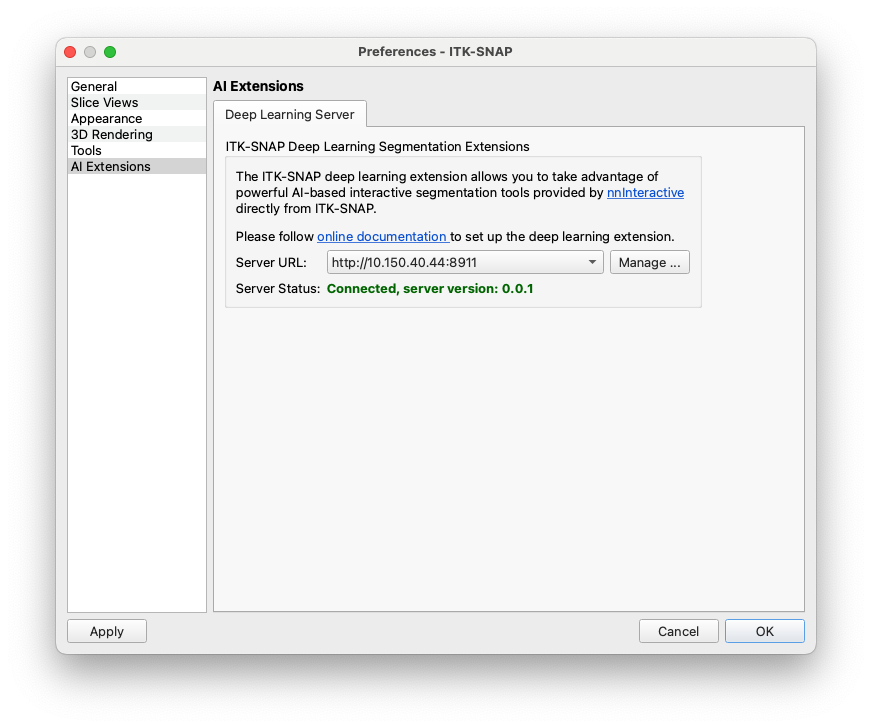
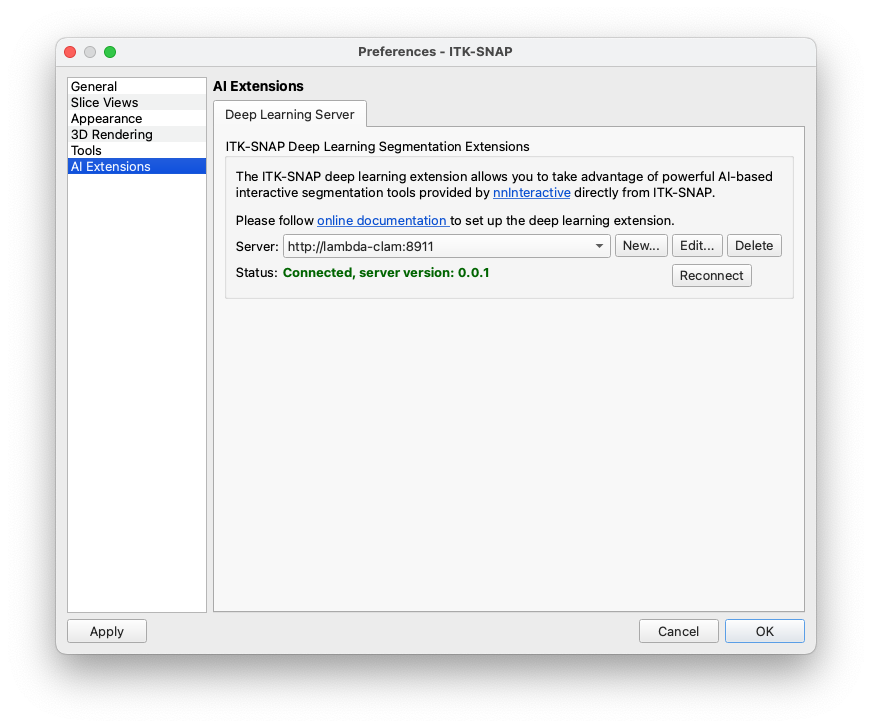
some session precaching and documentation

Changed region(s): [[0.2477, 0.2115, 0.8979, 0.4231], [0.0619, 0.2115, 0.2477, 0.2418]]

diff --git a/itksnap_dls/server.py b/itksnap_dls/server.py
@@ -1,23 +1,18 @@
-from typing import Union, Callable, List
-from pydantic import BaseModel
+from typing import Callable
 from fastapi import FastAPI, UploadFile, File, Request, Response, HTTPException, Form
 from fastapi.routing import APIRoute
 from fastapi.exceptions import RequestValidationError
-from fastapi.responses import FileResponse
 from importlib.metadata import version
-from .session import session_manager
+from .session import session_manager, PREPARED_SESSION_ID
 from .segment import SegmentSession
-import io
 import SimpleITK as sitk
-import torch
-import tempfile
-import os
-import logging
 import base64
 import numpy as np
 import gzip
 import time
 import json
+import asyncio
+from contextlib import asynccontextmanager
 
 # API debugging
 class ValidationErrorLoggingRoute(APIRoute):
@@ -38,36 +33,45 @@ class ValidationErrorLoggingRoute(APIRoute):
 
         return custom_route_handler
 
-app = FastAPI()
-# app.router.route_class = ValidationErrorLoggingRoute
-
-# Ready-to-use session
-ready_session = None
-
 # Startup code - this establishes a ready-to-use session that will be assigned 
 # to the first incoming request. This ensures faster startup on the ITK-SNAP
 # side after the server has been launched
-def server_startup():
+@asynccontextmanager
+async def lifespan(app: FastAPI):
+    # Startup logic
+    session_manager.create_session(
+        asyncio.create_task(create_segment_session()), 
+        PREPARED_SESSION_ID)
+    yield
+    
+app = FastAPI(lifespan=lifespan)
+# app.router.route_class = ValidationErrorLoggingRoute
+
+# This is a task that creates a new segmentation session
+async def create_segment_session():
+    t0 = time.perf_counter()
     seg = SegmentSession()
-    ready_session = session_manager.create_session(seg)
+    t1 = time.perf_counter()
+    print(f'SegmentSession created in {(t1-t0):0.6f} seconds')
+    return seg    
 
 @app.get("/status")
 def check_status():
     return {"status": "ok", "version": version("itksnap-dls")}
 
 @app.get("/start_session")
-def start_session():
-    global ready_session
+async def start_session():
+
+    # Grab a hopefully existing prepared segmentation session and assign to client session
+    prepseg = await session_manager.get_session(PREPARED_SESSION_ID)    
+    session_id = session_manager.create_session(prepseg)
     
-    # Create a segmentation session   
-    if ready_session is not None:
-        session_id = ready_session
-        ready_session = None
-        print(f'Session {session_id}: reusing ready_session')
-    else: 
-        seg = SegmentSession()
-        session_id = session_manager.create_session(seg)
-    
+    # Schedule another prepared session to be created
+    session_manager.create_session(
+        asyncio.create_task(create_segment_session()), 
+        PREPARED_SESSION_ID)
+
+    # Return the session id    
     return {"session_id": session_id}
 
 
@@ -77,7 +81,6 @@ def read_sitk_image(contents, metadata):
     array = np.frombuffer(contents_raw, dtype=np.float32)
 
     # Reshape the array
-    print(f'Metadata: {metadata}')
     metadata_dict = json.loads(metadata)
     dim = metadata_dict['dimensions'][::-1]
     array = array.reshape(dim)
@@ -99,10 +102,15 @@ async def upload_raw(session_id: str, file: UploadFile = File(...), metadata: st
 
     # Read file into memory
     contents_gzipped = await file.read()
+    t0 = time.perf_counter()
     sitk_image = read_sitk_image(contents_gzipped, metadata)
+    t1 = time.perf_counter()
     
     # Load NIFTI using SimpleITK
     seg.set_image(sitk_image)
+    t2 = time.perf_counter()
+    
+    print(f'Image received\n  t[decode] = {t1-t0:0.6f}\n  t[set_image] = {t2-t1:0.6f}')
 
     # Store in session
     return {"message": "NIFTI file uploaded and stored in GPU memory"}        

diff --git a/itksnap_dls/__main__.py b/itksnap_dls/__main__.py
@@ -1,7 +1,8 @@
 import uvicorn
 import argparse
 import socket
-from .server import app, server_startup
+import ipaddress
+from .server import app
 from .segment import global_config
 import torch.cuda
 
@@ -47,8 +48,49 @@ def get_args():
 
     return parser.parse_args()
 
+def print_gpu_info():
+    if torch.cuda.is_available():
+        device = torch.device("cuda")
+        gpu_name = torch.cuda.get_device_name(device)
+        gpu_index = torch.cuda.current_device()
+        print(f"    Using GPU {gpu_index}: {gpu_name}")
+    else:
+        print(f"    No GPU available, using CPU.")
+
+def print_banner(host: str, port: int):
+    print(f'***************** ITK-SNAP Deep Learning Extensions Server ******************')
+
+    print_gpu_info()
+    urls = []
+    
+    # Get all network interfaces
+    hostname = socket.gethostname()
+    local_ips = socket.getaddrinfo(hostname, None)
+    unique_ips = set(ip[-1][0] for ip in local_ips)
+    
+    for ip in unique_ips:
+        ip_obj = ipaddress.ip_address(ip)
+        if ip_obj.is_loopback:
+            urls.append([ip, port, True])
+            urls.append(['localhost', port, True])
+        else:
+            urls.append([ip, port, False])
+            urls.append([socket.getfqdn(ip), port, False])
+
+    usort = sorted(set(tuple(x) for x in urls))
+    print(f'    Use one of the following settings in ITK-SNAP to connect to this server:')
+    for url in list([x for x in usort if x[2] is False]):
+        print(f'        Server: {url[0]:40s}  Port: {url[1]}')
+    for url in list([x for x in usort if x[2] is True]):
+        print(f'        Server: {url[0]:40s}  Port: {url[1]}  †')
+    print(f'        †: only works if ITK-SNAP is running on the same computer')
+
+    print(f'******************************************************************************')
+
+
 
 def get_access_urls(host: str, port: int):
+
     """Generate a list of URLs based on the system's network interfaces."""
     urls = []
     
@@ -59,11 +101,10 @@ def get_access_urls(host: str, port: int):
         unique_ips = set(ip[-1][0] for ip in local_ips)
         
         for ip in unique_ips:
-            protocol = "http"  # Change to https if needed
-            urls.append(f"{protocol}://{ip}:{port}")
+            urls.append([ip, port])
 
     else:
-        urls.append(f"http://{host}:{port}")
+        urls.append([host, port])
 
     return urls
 
@@ -75,12 +116,6 @@ if __name__ == "__main__":
     global_config.https_verify = args.insecure
 
     # Print how to access the server
-    print(f'************ ITK-SNAP Deep Learning Extensions Server ************')
-    urls = get_access_urls(args.host, port=args.port)
-    print(f'Use one of the following URLs to access the server from ITK-SNAP:')
-    for url in urls:
-        print(f'    {url}')
-    print(f'******************************************************************')
+    print_banner(args.host, port=args.port)
 
-    server_startup()
     uvicorn.run(app, host=args.host, port=args.port)

diff --git a/itksnap_dls/session.py b/itksnap_dls/session.py
@@ -1,12 +1,15 @@
 import torch
 import uuid
 
+PREPARED_SESSION_ID="prepared_session_id"
+
 class SessionManager:
+    
     def __init__(self):
         self.sessions = {}
 
-    def create_session(self, session_data):
-        session_id = str(uuid.uuid4())
+    def create_session(self, session_data, user_session_id=str(uuid.uuid4())):
+        session_id = user_session_id
         self.sessions[session_id] = session_data
         return session_id
 

diff --git a/docs/quick_start.md b/docs/quick_start.md
@@ -1,12 +1,19 @@
 ITK-SNAP DLS Quick Start
 ========================
-ITK-SNAP DLS is in early development stages. Please bookmark this page and check for updates.
+ITK-SNAP DLS is in active development. Please bookmark this page and check for updates.
 
 Overview
 --------
-This extension allows you to take advantage of powerful AI-based interactive segmentation tools provided by [nnInteractive](https://github.com/MIC-DKFZ/nnInteractive) directly from ITK-SNAP. In mere seconds, scribbles drawn using the ITK-SNAP paintbrush are transformed into complex 3D segmentations.
+This extension allows you to take advantage of powerful AI-based interactive segmentation tools provided by [nnInteractive](https://github.com/MIC-DKFZ/nnInteractive) directly from [ITK-SNAP](https://itksnap.org). In seconds, scribbles drawn using the ITK-SNAP paintbrush are transformed into complex 3D segmentations.
 
 ![ITK-SNAP DLS diagram](images/itksnap_dls.png)
+
+*If you use this feature for published work, please cite the most recent **nnInteractive** publication from Isensee et al.* Currently, the suggested citation is:
+
+> Isensee, F.\*, Rokuss, M.\*, Krämer, L.\*, Dinkelacker, S., Ravindran, A., Stritzke, F., Hamm, B., Wald, T., Langenberg, M., Ulrich, C., Deissler, J., Floca, R., & Maier-Hein, K. (2025). nnInteractive: Redefining 3D Promptable Segmentation. https://arxiv.org/abs/2503.08373 \
+> *: equal contribution
+
+Link: [![arXiv](https://img.shields.io/badge/arXiv-2503.08373-b31b1b.svg)](https://arxiv.org/abs/2503.08373)
 
 Requirements
 ------------
@@ -46,11 +53,15 @@ The first time you run this command, [nnInteractive](https://github.com/MIC-DKFZ
 
 ```
 $ python -m itksnap_dls 
-************ ITK-SNAP Deep Learning Extensions Server ************
-Use one of the following URLs to access the server from ITK-SNAP:
-    http://127.0.1.1:8911
-    http://10.150.40.44:8911
-******************************************************************
+***************** ITK-SNAP Deep Learning Extensions Server ******************
+    Using GPU 0: NVIDIA RTX A6000
+    Use one of the following settings in ITK-SNAP to connect to this server:
+        Server: 10.150.40.44                              Port: 8911
+        Server: lambda-clam                               Port: 8911
+        Server: 127.0.1.1                                 Port: 8911  †
+        Server: localhost                                 Port: 8911  †
+        †: only works if ITK-SNAP is running on the same computer
+******************************************************************************
 ```
 
 Connecting to DLS from ITK-SNAP
@@ -60,8 +71,9 @@ The deep learniing segmentation extension in ITK-SNAP is accessed under the pain
 
 ![Dialog Window](images/itksnap_dls_dialog.png)
 
-Pressing "Yes, configure" will open the Preferences Dialog, "AI Extensions" page, where you can enter the URL from Step 2. If successful, you will see a green "Connected" message under server status.
+Pressing "Yes, configure" will open the Preferences Dialog, "AI Extensions" page. Press the **New...** button to open a dialog where you can enter the server address and port, as shown below. If successful, you will see a green "Connected" message under server status.
 
+![Config window](images/dlsconfig_edit.png)
 ![Config window](images/dlsconfig.png)
 
 If you get a red error message instead, please see troubleshooting below.
@@ -72,6 +84,11 @@ Using nnInteractive from ITK-SNAP
 * Just draw with the "AI" paintbrush. Your scribbles will be converted by **nnInteractive** to 3D segmentations. You can use the left mouse button to label pixels that should belong to the structure of interest, and right mouse button to label pixels that should be removed from the structure. When you change the active label, the **nnInteractive** interaction state is reset -- as if you are starting a new segmentation. 
 
 ![Interaction example](images/interaction.png)
+
+* ITK-SNAP currently supports two types of **nnInteractive** interactions:
+    * **Point interaction:** when you click once using the paintbrush
+    * **Scribble interaction:** when you draw using the paintbrush (press, drag, and release) 
+
 
 Troubleshooting
 ---------------
@@ -95,18 +112,22 @@ Troubleshooting
 
 Errors are likely caused by a firewall on your server. Some options to resolve this are:
 
-* If `itksnap-dls` prints out more than one URL that can be used, try them all. URLs like `http://127.0.0.1:8911` should be used when ITK-SNAP and `itksnap-dls` are running on the same machine. Other URLs, like `http://10.150.40.44:8911` are meant to be used when `itksnap-dls` is running on a remote machine. 
+* If `itksnap-dls` prints out more than one server/port pairs that can be used, try them all. Server address `127.0.0.1` should be used when ITK-SNAP and `itksnap-dls` are running on the same machine. Other server addresses, like `10.150.40.44` are meant to be used when `itksnap-dls` is running on a remote machine. 
 
-* Ask the system administrator to open the port being used by `itksnap-dls`, e.g., port 8911 or whatever port number you provide using the `-p` option. 
+* Ask the system administrator to open the port being used by `itksnap-dls` on the GPU server, e.g., port 8911 or whatever port number you provide using the `-p` option. 
 
-* Use secure shell (SSH) tunneling. This feature is provided by the command-line program `ssh.exe` (Windows) or `ssh` (MacOS/Linux). Open a terminal window on the computer running ITK-SNAP, and run the command
+* Use secure shell (SSH) tunneling built into ITK-SNAP. This is a very experimental feature in ITK-SNAP. Check the SSH tunnel button when setting up the server in ITK-SNAP and enter the username you use to login to the GPU server. ITK-SNAP will attempt to open a secure shell connection to the GPU server and to use this connecting to send data to `itksnap-dls`. You may be prompted for your password. ITK-SNAP currently does not store this password, and if we will in the future, it will use your operating system's keychain.
+
+![Config window](images/dlsconfig_ssh.png)
+
+* Use SSH tunneling using an external program. This feature is provided by the command-line program `ssh.exe` (Windows) or `ssh` (MacOS/Linux). Open a terminal window on the computer running ITK-SNAP, and run the command
 
         ssh username@servername -L 8891:localhost:8891
 
     For example
 
-        ssh pauly@10.150.40.44 -L 8891:localhost:8891
+        ssh picsluser@lambda-clam -L 8891:localhost:8891
 
-    As long as the SSH session is active, all traffic to your local machine's port 8891 will be forwarded to the server. In ITK-SNAP, you would now use the URK `http://localhost:8891` to connect to the server.
+    As long as the SSH session is active, all traffic to your local machine's port 8891 will be forwarded to the server. In ITK-SNAP, you would now use the server `localhost` and port `8891` to connect to the server.
 
 
